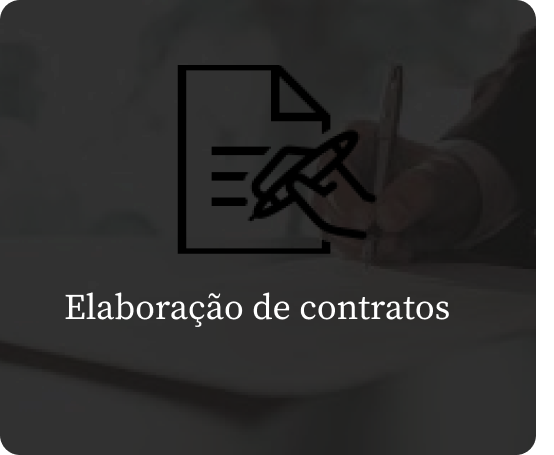
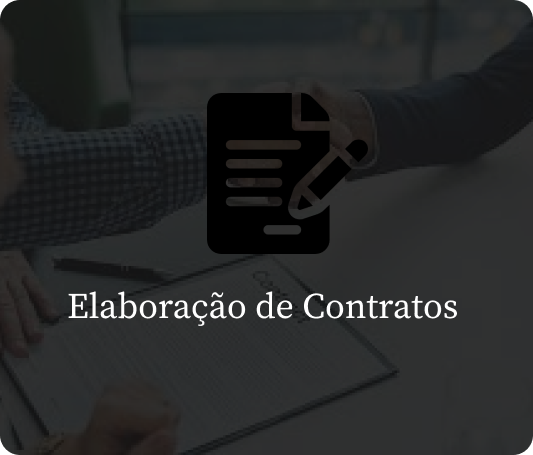
Services Page created

diff --git a/pages/servicos.html b/pages/servicos.html
@@ -1,0 +1,67 @@
+<html>
+    <head>
+        
+        <meta http-equiv="Content-Type" content="text/html;charset=UTF-8">
+
+        <title>Site da Advogada Adelia Aragão</title>
+
+        <meta name="description" content="Site de Advogada Adelia Aragão. Aqui você encontrará informações sobre a profissional e quais suas áreas de atuação">
+        <meta name="keywords" content="Site, Adelia Aragão, Advocacia, Caruaru, Advogados">
+
+        <meta name="viewport" content="width=device-width, initial-scale=1.0">
+
+        <link rel="apple-touch-icon" sizes="180x180" href="../assets/apple-touch-icon.png">
+        <link rel="icon" type="image/png" sizes="32x32" href="../assets/favicon-32x32.png">
+        <link rel="icon" type="image/png" sizes="16x16" href="../assets/favicon-16x16.png">
+        <link rel="manifest" href="/site.webmanifest">
+
+        <link rel="stylesheet" href="../css/style.css">
+        <link rel="stylesheet" href="../css/servicos.css">
+        <link href="https://fonts.googleapis.com/css2?family=Work+Sans:wght@300&display=swap" rel="stylesheet">
+
+    </head>
+    
+    <body>
+        <div class="container">
+            <header>
+                <img src="../assets/Rectangle 2.png" alt="Imagem logo" srcset="">
+                    <nav>
+                        <a class="Logo" href="">Adelia Aragão</a>
+                        <ul class="nav-list">
+                            <li><a href="../index.html">Home</a></li>
+                            <li><a href="#">Serviços</a></li>
+                            <li><a href="">Contato</a></li>
+                        </ul>
+                    </nav>
+            </header>
+        </div>
+             
+            <main>
+                
+                <div class="servico">
+                   <img src="../assets/Group 1 (2).png" alt="Imagem Direito da Família e Sucessçoes" srcset="">
+                </div>
+
+            
+                <div class="servico">
+                   <img src="../assets/Group 2.png" alt="Imagem Elaboração de contratos" srcset="">
+                </div>
+           
+
+           
+                <div class="servico">
+                   <img src="../assets/Group 3.png" alt="Imagem Direito imobiliário, Registro e Regularização de Imovéis" srcset="">
+                </div>
+       
+
+        
+                <div class="servico">
+                   <img src="../assets/Group 4.png" alt="Imagem Defesa do Direito do Consumidor Focado em Plano de Saúde" srcset="">
+                </div>
+           
+            </main>
+            
+             <footer>
+                <h3>Copyright Adelia Aragão Advogada. Todoos os direitos reservados</h3>
+             </footer>
+    </body>

diff --git a/index.html b/index.html
@@ -16,26 +16,30 @@
         <link rel="manifest" href="/site.webmanifest">
 
         <link rel="stylesheet" href="css/style.css">
-<link href="https://fonts.googleapis.com/css2?family=Work+Sans:wght@300&display=swap" rel="stylesheet">
+        <link href="https://fonts.googleapis.com/css2?family=Work+Sans:wght@300&display=swap" rel="stylesheet">
 
     </head>
     
     <body>
+        
         <div class="container">
+            
             <header>
                 <img src="assets/Rectangle 2.png" alt="Imagem logo" srcset="">
                     <nav>
                         <a class="Logo" href="">Adelia Aragão</a>
                         <ul class="nav-list">
-                            <li><a href="">Home</a></li>
-                            <li><a href="">Serviços</a></li>
+                            <li><a href="#">Home</a></li>
+                            <li><a href="pages/servicos.html">Serviços</a></li>
                             <li><a href="">Contato</a></li>
                         </ul>
                     </nav>
             </header>
+        
         </div>
              
             <main>
+
                 <h1 class="topico">Sobre mim:</h1>
                 <section>
                     <img src="assets/00f894e6-352a-4615-91f8-1c5de81f141b 1.png" alt="Foro de Adelia" srcset="">
@@ -62,6 +66,7 @@
                     </div>
                     <iframe class="mapbox" src="https://www.google.com/maps/embed?pb=!1m18!1m12!1m3!1d15793.526457217167!2d-35.97642602285056!3d-8.264760404851128!2m3!1f0!2f0!3f0!3m2!1i1024!2i768!4f13.1!3m3!1m2!1s0x7a98bc79e332ded%3A0x5690c603e53ec090!2sShopping%20Difusora!5e0!3m2!1spt-BR!2sbr!4v1678497385793!5m2!1spt-BR!2sbr" width="600" height="450" style="border:0;" allowfullscreen="" loading="lazy" referrerpolicy="no-referrer-when-downgrade"></iframe>
                 </section>
+            
             </main>
             
              <footer>

diff --git a/css/servicos.css b/css/servicos.css
@@ -1,0 +1,28 @@
+main{
+    text-align: center;
+}
+
+main img:hover{
+    background-color: #BF861B;
+    border-radius: 20px;
+}
+
+.servico{
+    display: inline-block;
+    align-items: center;
+    padding: 60px;
+}
+
+@media only screen and (max-width:1024px){
+     
+       main img{
+    display: inline-block;
+    width: 100%;
+}
+
+
+    main img:hover{
+        background-color: gray;
+    }
+
+}
